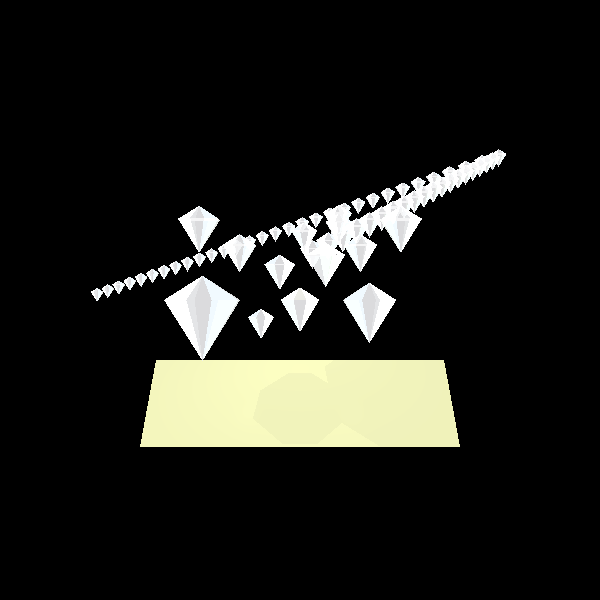
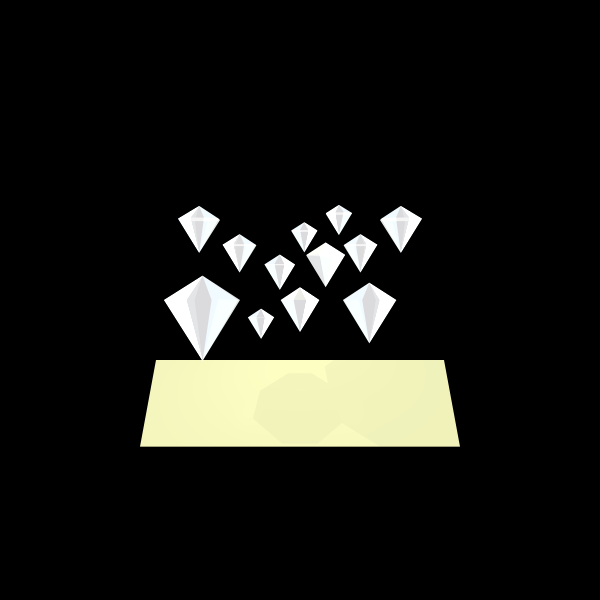
סיימנו??

Changed region(s): [[0.15, 0.24, 0.84, 0.51]]

diff --git a/test/renderer/ReflectionRefractionTests.java b/test/renderer/ReflectionRefractionTests.java
@@ -572,252 +572,88 @@ public class ReflectionRefractionTests {
                 new Triangle(L8, H8, J8).setEmission(new Color(color7)).setMaterial(material),
                 new Triangle(L8, J8, I8).setEmission(new Color(color8)).setMaterial(material));
 
-        //continue
 
-
-        M8 = new Point3D(30, 90, -395);
-        N8 = new Point3D(40, 90, -407.5);
-        E8 = new Point3D(50, 90, -407.5);
-        F8 = new Point3D(60, 90, -395);
-        G8 = new Point3D(30, 90, -380);
-        H8 = new Point3D(60, 90, -380);
-        I8 = new Point3D(40, 90, -370);
-        J8 = new Point3D(50, 90, -370);
-        K8 = new Point3D(45, 100, -387.5);
-        L8 = new Point3D(45, 65, -387.5);
-
-        scene._geometries.add(new Polygon(I8, G8, M8, N8, E8, F8, H8, J8).setEmission(new Color(java.awt.Color.WHITE)),
-                //UP TRIANGLES
-                new Triangle(K8, I8, G8).setEmission(new Color(color1)).setMaterial(material),
-                new Triangle(K8, G8, M8).setEmission(new Color(color2)).setMaterial(material),
-                new Triangle(K8, M8, N8).setEmission(new Color(color3)).setMaterial(material),
-                new Triangle(K8, N8, E8).setEmission(new Color(color4)).setMaterial(material),
-                new Triangle(K8, E8, F8).setEmission(new Color(color4)).setMaterial(material),
-                new Triangle(K8, F8, H8).setEmission(new Color(color6)).setMaterial(material),
-                new Triangle(K8, H8, J8).setEmission(new Color(color7)).setMaterial(material),
-                new Triangle(K8, J8, I8).setEmission(new Color(color8)).setMaterial(material),
-                //DOWN TRIANGLES
-                new Triangle(L8, I8, G8).setEmission(new Color(color1)).setMaterial(material),
-                new Triangle(L8, G8, M8).setEmission(new Color(color2)).setMaterial(material),
-                new Triangle(L8, M8, N8).setEmission(new Color(color3)).setMaterial(material),
-                new Triangle(L8, N8, E8).setEmission(new Color(color4)).setMaterial(material),
-                new Triangle(L8, E8, F8).setEmission(new Color(color5)).setMaterial(material),
-                new Triangle(L8, F8, H8).setEmission(new Color(color6)).setMaterial(material),
-                new Triangle(L8, H8, J8).setEmission(new Color(color7)).setMaterial(material),
-                new Triangle(L8, J8, I8).setEmission(new Color(color8)).setMaterial(material));
-
-        double x=-50,y=-50,z=0;
-
-        for (int i = 0; i < 20; i++) {
-            x+=20;
-            y+=12;
-            z-=50;
-
-
-            M8 = new Point3D(30+x, 100+y, -395+z);
-            N8 = new Point3D(40+x, 100+y, -407.5+z);
-            E8 = new Point3D(50+x, 100+y, -407.5+z);
-            F8 = new Point3D(60+x, 100+y, -395+z);
-            G8 = new Point3D(30+x, 100+y, -380+z);
-            H8 = new Point3D(60+x, 100+y, -380+z);
-            I8 = new Point3D(40+x, 100+y, -370+z);
-            J8 = new Point3D(50+x, 100+y, -370+z);
-            K8 = new Point3D(45+x, 110+y, -387.5+z);
-            L8 = new Point3D(45+x, 75+y, -387.5+z);
-
-            scene._geometries.add(new Polygon(I8, G8, M8, N8, E8, F8, H8, J8).setEmission(new Color(java.awt.Color.WHITE)),
-                    //UP TRIANGLES
-                    new Triangle(K8, I8, G8).setEmission(new Color(color1)).setMaterial(material),
-                    new Triangle(K8, G8, M8).setEmission(new Color(color2)).setMaterial(material),
-                    new Triangle(K8, M8, N8).setEmission(new Color(color3)).setMaterial(material),
-                    new Triangle(K8, N8, E8).setEmission(new Color(color4)).setMaterial(material),
-                    new Triangle(K8, E8, F8).setEmission(new Color(color4)).setMaterial(material),
-                    new Triangle(K8, F8, H8).setEmission(new Color(color6)).setMaterial(material),
-                    new Triangle(K8, H8, J8).setEmission(new Color(color7)).setMaterial(material),
-                    new Triangle(K8, J8, I8).setEmission(new Color(color8)).setMaterial(material),
-                    //DOWN TRIANGLES
-                    new Triangle(L8, I8, G8).setEmission(new Color(color1)).setMaterial(material),
-                    new Triangle(L8, G8, M8).setEmission(new Color(color2)).setMaterial(material),
-                    new Triangle(L8, M8, N8).setEmission(new Color(color3)).setMaterial(material),
-                    new Triangle(L8, N8, E8).setEmission(new Color(color4)).setMaterial(material),
-                    new Triangle(L8, E8, F8).setEmission(new Color(color5)).setMaterial(material),
-                    new Triangle(L8, F8, H8).setEmission(new Color(color6)).setMaterial(material),
-                    new Triangle(L8, H8, J8).setEmission(new Color(color7)).setMaterial(material),
-                    new Triangle(L8, J8, I8).setEmission(new Color(color8)).setMaterial(material));
-        }
-
-
-
-        for (int i = 0; i < 30; i++) {
-
-            x-=30;
-            z-=20;
-            y-=9;
-            M8 = new Point3D(30+x, 100+y, -395+z);
-            N8 = new Point3D(40+x, 100+y, -407.5+z);
-            E8 = new Point3D(50+x, 100+y, -407.5+z);
-            F8 = new Point3D(60+x, 100+y, -395+z);
-            G8 = new Point3D(30+x, 100+y, -380+z);
-            H8 = new Point3D(60+x, 100+y, -380+z);
-            I8 = new Point3D(40+x, 100+y, -370+z);
-            J8 = new Point3D(50+x, 100+y, -370+z);
-            K8 = new Point3D(45+x, 110+y, -387.5+z);
-            L8 = new Point3D(45+x, 75+y, -387.5+z);
-
-            scene._geometries.add(new Polygon(I8, G8, M8, N8, E8, F8, H8, J8).setEmission(new Color(java.awt.Color.WHITE)),
-                    //UP TRIANGLES
-                    new Triangle(K8, I8, G8).setEmission(new Color(color1)).setMaterial(material),
-                    new Triangle(K8, G8, M8).setEmission(new Color(color2)).setMaterial(material),
-                    new Triangle(K8, M8, N8).setEmission(new Color(color3)).setMaterial(material),
-                    new Triangle(K8, N8, E8).setEmission(new Color(color4)).setMaterial(material),
-                    new Triangle(K8, E8, F8).setEmission(new Color(color4)).setMaterial(material),
-                    new Triangle(K8, F8, H8).setEmission(new Color(color6)).setMaterial(material),
-                    new Triangle(K8, H8, J8).setEmission(new Color(color7)).setMaterial(material),
-                    new Triangle(K8, J8, I8).setEmission(new Color(color8)).setMaterial(material),
-                    //DOWN TRIANGLES
-                    new Triangle(L8, I8, G8).setEmission(new Color(color1)).setMaterial(material),
-                    new Triangle(L8, G8, M8).setEmission(new Color(color2)).setMaterial(material),
-                    new Triangle(L8, M8, N8).setEmission(new Color(color3)).setMaterial(material),
-                    new Triangle(L8, N8, E8).setEmission(new Color(color4)).setMaterial(material),
-                    new Triangle(L8, E8, F8).setEmission(new Color(color5)).setMaterial(material),
-                    new Triangle(L8, F8, H8).setEmission(new Color(color6)).setMaterial(material),
-                    new Triangle(L8, H8, J8).setEmission(new Color(color7)).setMaterial(material),
-                    new Triangle(L8, J8, I8).setEmission(new Color(color8)).setMaterial(material));
-
-        }
-
-
-
-//                //the big sphere
-//                new Sphere(new Point3D(0, -31, 20), 23).setEmission(new Color(53, 85, 204))
-//                        .setMaterial(new Material().setKd(0.8).setkT(0.02).setkR(0).setKs(1).setnShininess(500)),
-//                //piramid
-//                //the front right triangle
-//                new Triangle(new Point3D(30, -22, 80), new Point3D(30, -70, 100), new Point3D(50, -60, 50)).setEmission(new Color(214, 212, 78))
-//                        .setMaterial(new Material().setKd(0.8).setkT(0.02).setkR(0).setKs(1).setnShininess(500)),
-//                //front left triangle
-//                new Triangle(new Point3D(30, -22, 80), new Point3D(5, -60, 50), new Point3D(30, -70, 100)).setEmission(new Color(214, 212, 78))
-//                        .setMaterial(new Material().setKd(0.8).setkT(0.02).setkR(0).setKs(1).setnShininess(500)),
-//                //behind triangle
-//                new Triangle(new Point3D(30, -22, 80), new Point3D(5, -60, 50), new Point3D(50, -60, 50)).setEmission(new Color(214, 212, 78))
-//                        .setMaterial(new Material().setKd(0.8).setkT(0.02).setkR(0).setKs(1).setnShininess(500)),
-//                //under triangle
-//                new Triangle(new Point3D(5, -60, 50), new Point3D(50, -60, 50), new Point3D(30, -70, 100)).setEmission(new Color(214, 212, 78))
-//                        .setMaterial(new Material().setKd(0.8).setkT(0.02).setkR(0).setKs(1).setnShininess(500)),
-//                //front right
-//                new Polygon(P, S, L, N).setEmission(new Color(94, 199, 92)).setMaterial(new Material().setKd(0.8).setkT(0.02).setkR(0).setKs(1).setnShininess(500)),
-//                //front left
-//                new Polygon(Q, P, N, M).setEmission(new Color(94, 199, 92)).setMaterial(new Material().setKd(0.8).setkT(0.02).setkR(0).setKs(1).setnShininess(500)),
-//                //BEHIND right
-//                new Polygon(R, S, L, O).setEmission(new Color(94, 199, 92)).setMaterial(new Material().setKd(0.8).setkT(0.02).setkR(0).setKs(1).setnShininess(500)),
-//                //BEHIND LEFT
-//                new Polygon(Q, R, O, M).setEmission(new Color(94, 199, 92)).setMaterial(new Material().setKd(0.8).setkT(0.02).setkR(0).setKs(1).setnShininess(500)),
-//                //UP
-//                new Polygon(Q, R, S, P).setEmission(new Color(94, 199, 92)).setMaterial(new Material().setKd(0.8).setkT(0.02).setkR(0).setKs(1).setnShininess(500)),
-//                //DOWN
-//                new Polygon(M, O, L, N).setEmission(new Color(94, 199, 92)).setMaterial(new Material().setKd(0.8).setkT(0.02).setkR(0).setKs(1).setnShininess(500)));
-
-//זה הלולאות שאת עשית
-//    double x= Math.random()*100+1;
-//    double y=(Math.random()*100+50)*-1;
-//        for (int i = 0; i < 200; i++) {
-//            scene._geometries.add(new Sphere(new Point3D(x,y,(-5*y-250)/3),1).setEmission(new Color(Math.random()*255+1,Math.random()*255+1,Math.random()*255+1))
-//            .setMaterial(new Material().setKd(0.8).setkT(0.02).setkR(0).setKs(1).setnShininess(300)));
-//             x= Math.random()*100+1;
-//             y=(Math.random()*110+50)*-1;
+//        double x=-50,y=-50,z=0;
 //
-        //}
-//        for (int i = 0; i < 1000; i++) {
-//            scene._geometries.add(new Sphere(new Point3D(x,y,(-5*y-250)/3),1).setEmission(new Color(Math.random()*255+1,Math.random()*255+1,Math.random()*255+1))
-//                    .setMaterial(new Material().setKd(0.8).setkT(0.02).setkR(0).setKs(1).setnShininess(300)));
-//            x= (Math.random()*100+1)*-1;
-//            y=(Math.random()*110+50)*-1;
+//        for (int i = 0; i < 20; i++) {
+//            x+=20;
+//            y+=12;
+//            z-=50;
+//
+//
+//            M8 = new Point3D(30+x, 100+y, -395+z);
+//            N8 = new Point3D(40+x, 100+y, -407.5+z);
+//            E8 = new Point3D(50+x, 100+y, -407.5+z);
+//            F8 = new Point3D(60+x, 100+y, -395+z);
+//            G8 = new Point3D(30+x, 100+y, -380+z);
+//            H8 = new Point3D(60+x, 100+y, -380+z);
+//            I8 = new Point3D(40+x, 100+y, -370+z);
+//            J8 = new Point3D(50+x, 100+y, -370+z);
+//            K8 = new Point3D(45+x, 110+y, -387.5+z);
+//            L8 = new Point3D(45+x, 75+y, -387.5+z);
+//
+//            scene._geometries.add(new Polygon(I8, G8, M8, N8, E8, F8, H8, J8).setEmission(new Color(java.awt.Color.WHITE)),
+//                    //UP TRIANGLES
+//                    new Triangle(K8, I8, G8).setEmission(new Color(color1)).setMaterial(material),
+//                    new Triangle(K8, G8, M8).setEmission(new Color(color2)).setMaterial(material),
+//                    new Triangle(K8, M8, N8).setEmission(new Color(color3)).setMaterial(material),
+//                    new Triangle(K8, N8, E8).setEmission(new Color(color4)).setMaterial(material),
+//                    new Triangle(K8, E8, F8).setEmission(new Color(color4)).setMaterial(material),
+//                    new Triangle(K8, F8, H8).setEmission(new Color(color6)).setMaterial(material),
+//                    new Triangle(K8, H8, J8).setEmission(new Color(color7)).setMaterial(material),
+//                    new Triangle(K8, J8, I8).setEmission(new Color(color8)).setMaterial(material),
+//                    //DOWN TRIANGLES
+//                    new Triangle(L8, I8, G8).setEmission(new Color(color1)).setMaterial(material),
+//                    new Triangle(L8, G8, M8).setEmission(new Color(color2)).setMaterial(material),
+//                    new Triangle(L8, M8, N8).setEmission(new Color(color3)).setMaterial(material),
+//                    new Triangle(L8, N8, E8).setEmission(new Color(color4)).setMaterial(material),
+//                    new Triangle(L8, E8, F8).setEmission(new Color(color5)).setMaterial(material),
+//                    new Triangle(L8, F8, H8).setEmission(new Color(color6)).setMaterial(material),
+//                    new Triangle(L8, H8, J8).setEmission(new Color(color7)).setMaterial(material),
+//                    new Triangle(L8, J8, I8).setEmission(new Color(color8)).setMaterial(material));
 //        }
 
-//זה לולאות שאני עשיתי, שיחקתי פה קצת עם המקומות של האיקס והy
-        //סתם יירקתי חלק מהמקומות כדי שיצא מקבצים רחוקים, אבל תכלס עדיין אין מספיק כדורים בציור. אולי אפשר להגדיל אותו קצת. מה שבאלנו תכלס
-//       double  x = Math.random() * 100 + 1;
-//       double  y = (Math.random() * 100 + 50) * -1;
-//        for (int i = 0; i < 200; i++) {
-//            scene._geometries.add(new Sphere(new Point3D(x, y, (-5 * y - 250) / 3), 1).setEmission(new Color(Math.random() * 255 + 1, Math.random() * 255 + 1, Math.random() * 255 + 1))
-//                    .setMaterial(new Material().setKd(0.8).setkT(0.02).setkR(0).setKs(1).setnShininess(300)));
-//            x = Math.random() * 100 + 1;
-//            y = (Math.random() * 110 + 50) * -1;
+
+
+//        for (int i = 0; i < 30; i++) {
+//
+//            x-=30;
+//            z-=20;
+//            y-=9;
+//            M8 = new Point3D(30+x, 100+y, -395+z);
+//            N8 = new Point3D(40+x, 100+y, -407.5+z);
+//            E8 = new Point3D(50+x, 100+y, -407.5+z);
+//            F8 = new Point3D(60+x, 100+y, -395+z);
+//            G8 = new Point3D(30+x, 100+y, -380+z);
+//            H8 = new Point3D(60+x, 100+y, -380+z);
+//            I8 = new Point3D(40+x, 100+y, -370+z);
+//            J8 = new Point3D(50+x, 100+y, -370+z);
+//            K8 = new Point3D(45+x, 110+y, -387.5+z);
+//            L8 = new Point3D(45+x, 75+y, -387.5+z);
+//
+//            scene._geometries.add(new Polygon(I8, G8, M8, N8, E8, F8, H8, J8).setEmission(new Color(java.awt.Color.WHITE)),
+//                    //UP TRIANGLES
+//                    new Triangle(K8, I8, G8).setEmission(new Color(color1)).setMaterial(material),
+//                    new Triangle(K8, G8, M8).setEmission(new Color(color2)).setMaterial(material),
+//                    new Triangle(K8, M8, N8).setEmission(new Color(color3)).setMaterial(material),
+//                    new Triangle(K8, N8, E8).setEmission(new Color(color4)).setMaterial(material),
+//                    new Triangle(K8, E8, F8).setEmission(new Color(color4)).setMaterial(material),
+//                    new Triangle(K8, F8, H8).setEmission(new Color(color6)).setMaterial(material),
+//                    new Triangle(K8, H8, J8).setEmission(new Color(color7)).setMaterial(material),
+//                    new Triangle(K8, J8, I8).setEmission(new Color(color8)).setMaterial(material),
+//                    //DOWN TRIANGLES
+//                    new Triangle(L8, I8, G8).setEmission(new Color(color1)).setMaterial(material),
+//                    new Triangle(L8, G8, M8).setEmission(new Color(color2)).setMaterial(material),
+//                    new Triangle(L8, M8, N8).setEmission(new Color(color3)).setMaterial(material),
+//                    new Triangle(L8, N8, E8).setEmission(new Color(color4)).setMaterial(material),
+//                    new Triangle(L8, E8, F8).setEmission(new Color(color5)).setMaterial(material),
+//                    new Triangle(L8, F8, H8).setEmission(new Color(color6)).setMaterial(material),
+//                    new Triangle(L8, H8, J8).setEmission(new Color(color7)).setMaterial(material),
+//                    new Triangle(L8, J8, I8).setEmission(new Color(color8)).setMaterial(material));
 //
 //        }
-//        for (int i = 0; i < 200; i++) {
-//            scene._geometries.add(new Sphere(new Point3D(x, y, (-5 * y - 250) / 3), 1).setEmission(new Color(Math.random() * 255 + 1, Math.random() * 255 + 1, Math.random() * 255 + 1))
-//                    .setMaterial(new Material().setKd(0.8).setkT(0.02).setkR(0).setKs(1).setnShininess(300)));
-//            x = (Math.random() * 100 + 1) * -1;
-//            y = (Math.random() * 110 + 50) * -1;
-//        }
-
-//        for (int i = 0; i < 100; i++) {
-//            scene._geometries.add(new Sphere(new Point3D(x, y, (-5 * y - 250) / 3), 1).setEmission(new Color(Math.random() * 255 + 1, Math.random() * 255 + 1, Math.random() * 255 + 1))
-//                    .setMaterial(new Material().setKd(0.8).setkT(0.02).setkR(0).setKs(1).setnShininess(300)));
-//            x = (Math.random() * 100 + 1) * -1;
-//            y =rand.nextInt(50)*-1;
-//        }
-//        for (int i = 0; i < 50; i++) {
-//            scene._geometries.add(new Sphere(new Point3D(x, y, (-5 * y - 250) / 3), 1).setEmission(new Color(Math.random() * 255 + 1, Math.random() * 255 + 1, Math.random() * 255 + 1))
-//                    .setMaterial(new Material().setKd(0.8).setkT(0.02).setkR(0).setKs(1).setnShininess(300)));
-//            x = rand.nextInt(60);
-//            y =rand.nextInt(50)*-1;
-//        }
-//        for (int i = 0; i < 50; i++) {
-//            scene._geometries.add(new Sphere(new Point3D(x, y, (-5 * y - 250) / 3), 1).setEmission(new Color(Math.random() * 255 + 1, Math.random() * 255 + 1, Math.random() * 255 + 1))
-//                    .setMaterial(new Material().setKd(0.8).setkT(0.02).setkR(0).setKs(1).setnShininess(300)));
-//            x = rand.nextInt(60);
-//            y =rand.nextInt(100);
-//        }
-//        for (int i = 0; i < 100; i++) {
-//            scene._geometries.add(new Sphere(new Point3D(x, y, 0), 1).setEmission(new Color(Math.random() * 255 + 1, Math.random() * 255 + 1, Math.random() * 255 + 1))
-//                    .setMaterial(new Material().setKd(0.8).setkT(0.02).setkR(0).setKs(1).setnShininess(300)));
-//            x = rand.nextInt(100)*-1;
-//            y =rand.nextInt(100);
-//        }
 
 
-        //ופה עשיתי את הכדורים לא רנדומלים. יצא די מכוער
-//       // x=-120,120;12
-//        //y=-50,-120
-//        //z=(-5y-250)/3
-//
-//        //39*7
-//        double x=-120;
-//        double y=-70;
-//        for (int i = 0; i < 240; i+=2) {
-//            for (int j = 0; j < 20; j+=3) {
-//                scene._geometries.add(new Sphere(new Point3D(i+x,j+y,(-5*(j+y)-250)/3),2).setEmission(new Color(java.awt.Color.RED)));
-//
-//            }
-//        }
-//        //36*7
-//         x=120;
-//         y=-20;
-//        for (int i = 0; i < 20; i+=5) {
-//            for (int j = 0; j < 240; j+=3) {
-//                scene._geometries.add(new Sphere(new Point3D(j-x,i+y,(-5*(i+y)-250)/3),0.5).setEmission(new Color(java.awt.Color.GRAY)));
-//
-//            }
-//        }
-////75*4
-//        x=-120;
-//        y=50;
-//        for (int i = 0; i < 240; i+=3) {
-//            for (int j = 0; j < 20; j+=3) {
-//                scene._geometries.add(new Sphere(new Point3D(i+x,j-y,(-5*(j+y)-250)/3),1).setEmission(new Color(java.awt.Color.BLUE)));
-//
-//            }
-//        }
-//         x=-120;
-//         y=-95;
-//        for (int i = 0; i < 240; i+=2) {
-//            for (int j = 0; j < 20; j+=3) {
-//                scene._geometries.add(new Sphere(new Point3D(i+x,j+y,(-5*(j+y)-250)/3),1).setEmission(new Color(java.awt.Color.YELLOW)));
-//
-//            }
-//        }
 
         //we add source light- spot one, with discount coefficients. We wanted the light not to be too strong so we set the coefficient kc quite high and also kl not really low
         scene._lights.add(new SpotLight(new Color(255, 253, 160), new Point3D(0, 64, 70), new Vector(0, -5, 1)).setKc(0.8).setKl(0.08));
@@ -835,10 +671,10 @@ public class ReflectionRefractionTests {
                 .setCamera(camera) //
                 .setRayTracerBase(new BasicRayTracer(scene));
 
-        scene._geometries.setBVHImprovementOff(false);
-        scene._geometries.buildHierarchicalBVH();
+        //scene._geometries.setBVHImprovementOff(false);
+        //scene._geometries.buildHierarchicalBVH();
 
-        render.renderImage();
+        render.renderImage(9);
         render.writeToImage();
     }
 
@@ -908,8 +744,8 @@ public class ReflectionRefractionTests {
         scene._lights.add(new SpotLight(new Color(255, 253, 160), new Point3D(48, 48, 10), new Vector(-66, -75, 23)).setKc(0.08).setKl(0.03));
         scene._lights.add(new SpotLight(new Color(255, 253, 160), new Point3D(-48, 48, 10), new Vector(66, -71, 23)).setKc(0.08).setKl(0.03));
 
-        // scene._geometries.setBVHImprovementOff(false);
-        //scene._geometries.buildHierarchicalBVH();
+        scene._geometries.setBVHImprovementOff(false);
+        scene._geometries.buildHierarchicalBVH();
 
         ImageWriter imageWriter = new ImageWriter("Mp1", 600, 600);
         Render render = new Render()
